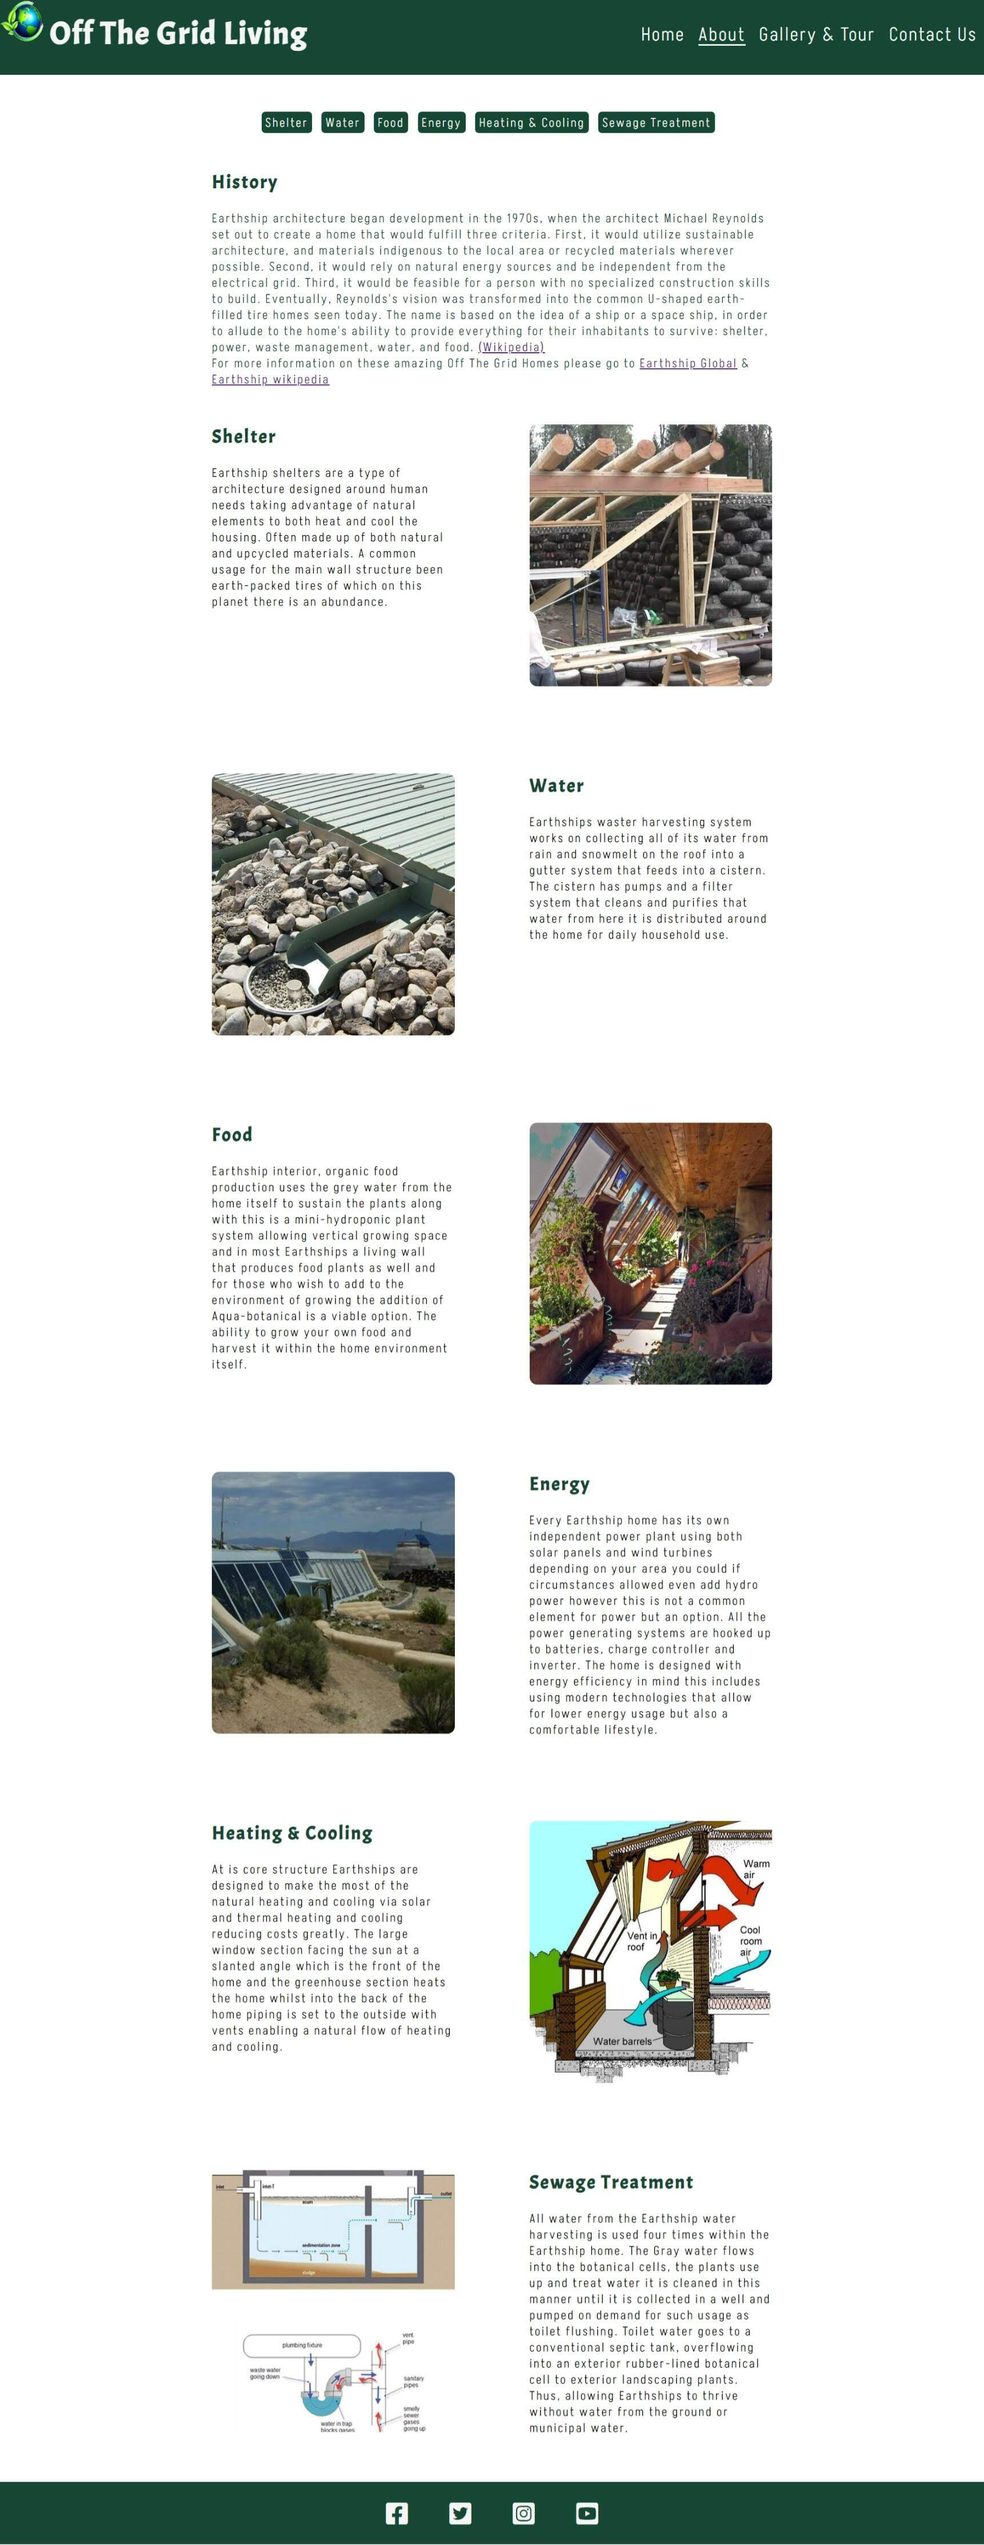
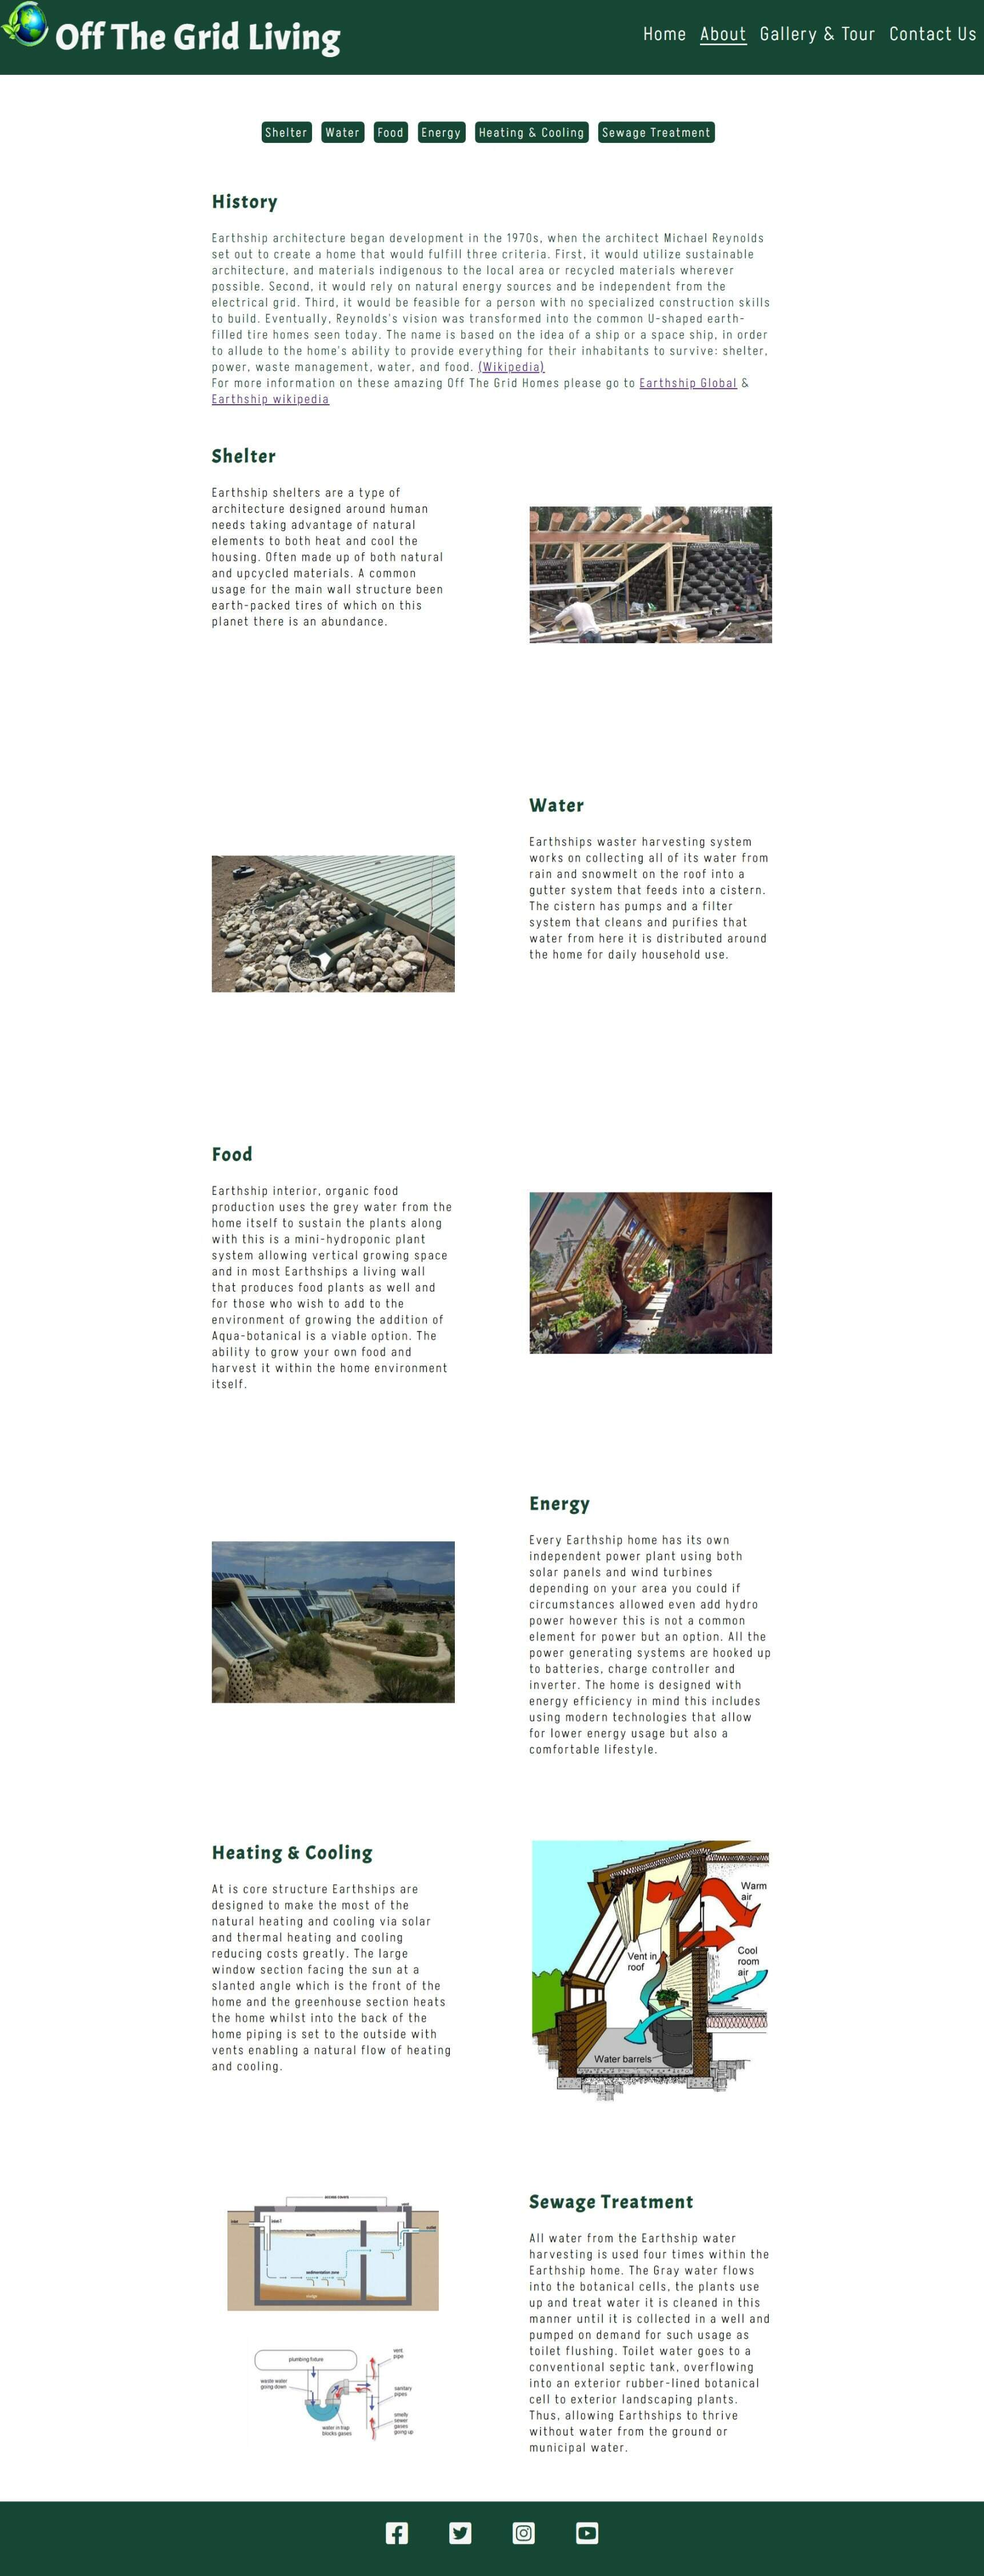
delete and reinstall readme image aboutpagewebcapture and correct some text within readme.

diff --git a/README.md b/README.md
@@ -4,13 +4,13 @@
 
 Off The Grid Living is a landing site for those who are seeking to move from main stream living to off grid living. In this website you are introduced to the Earthship Eco home an innovative idea that addresses the 6 basic human needs and incorporates them right into the home environment. Making a Self-Sustainable Eco home that is both off the grid and modern.
 
-Users of this website will be able to find information on the 6 basic human needs that are incorporated into the Earthship design along with links to further information a lovely gallery and video tur and a contact form should the user require further assistance or information.
+Users of this website will be able to find information on the 6 basic human needs that are incorporated into the Earthship design along with links to further information a lovely gallery and video tour and a contact form should the user require further assistance or information.
 
 
 # UX 
 
 I wanted to aim for a visually appealing website that also imparted information to the user on the Earthship Eco Home as an Off The Grid Living option.
-Keeping the site clean and sleek whilst engaging the user with the website whilst adding a touch of fun.
+Keeping the site clean and sleek as well as engaging the user with the website whilst adding a touch of fun.
 On the home page I went for an animated introduction picture on the home that zooms in order to draw the eye to the home's look and feel. Under this I added 3 images that link to the other 3 pages of the site making it fun and visually appealing to keep the user engaged. Under these 3 images I added a short introduction in order to entice and add value to the information to follow.
 The about page starts with a brief history acquired from Wikipedia and referenced within the history paragraph with a link to this site, also here I have added at the end of the history paragraph for more information 2 external links to the original Earthship website and again to Wikipedia. The about page information is set up in a row column format with information to one side and an image to another so the user can choose to glance at the images or read the information either way the information is visible and understandable the hope is the images entice the user to read the information.
 The Gallery and tour section is set up with an iframe YouTube video tour about the Earthship eco home and is only playable if the user decides to play it under this there are gallery images of the Earthship home both external and internal images to show the user what the home could and does look like.
